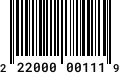
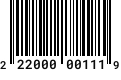
GTIN-8 support

diff --git a/src/Gtin8.php b/src/Gtin8.php
@@ -28,7 +28,7 @@ use Picqer\Barcode\BarcodeGeneratorJPG;
  * @license  MIT (https://sglms.com/license)
  * @link     https://sglms.com
  **/
-class Gtin12 extends GtinAbstract
+class Gtin8 extends GtinAbstract
 {
 
     /**
@@ -43,7 +43,7 @@ class Gtin12 extends GtinAbstract
     public static function create(
         int     $itemNumber,
         ?string $companyPrefix  = null,
-        string  $type = 'GTIN-12'
+        string  $type = 'GTIN-8'
     ): \Sglms\Gs1Gtin\GtinAbstract {
         $gtin             = new self($itemNumber, $companyPrefix, $type);
         return $gtin;
@@ -60,8 +60,8 @@ class Gtin12 extends GtinAbstract
      **/
     public function saveWithNumber(
         string $filename = "name",
-        int $sep         = 2,
-        int $height      = 36
+        int $sep         = 1,
+        int $height      = 56
     ): void {
         $generator = $this->saveBarcode($filename, $sep, $height);
         $barcode   = imagecreatefromjpeg($filename . ".jpg");
@@ -123,47 +123,27 @@ class Gtin12 extends GtinAbstract
 
         imagettftext(
             $canvas,
-            8,
+            10,
             0,
-            0,
-            $bcHeight + 5,
+            16,
+            $bcHeight + 6,
             imagecolorallocate($barcode, 10, 10, 10),
             'resources/RobotoMono-SemiBold.ttf',
-            (string) substr((string) $this->number, 0, 1)
+            substr((string) $this->number, 0, 4)
         );
         imagettftext(
             $canvas,
             10,
             0,
-            17,
-            $bcHeight + 5,
+            53,
+            $bcHeight + 6,
             imagecolorallocate($barcode, 10, 10, 10),
             'resources/RobotoMono-SemiBold.ttf',
-            substr((string) $this->number, 1, 5)
-        );
-        imagettftext(
-            $canvas,
-            10,
-            0,
-            66,
-            $bcHeight + 5,
-            imagecolorallocate($barcode, 10, 10, 10),
-            'resources/RobotoMono-SemiBold.ttf',
-            substr((string) $this->number, 6, 5)
-        );
-        imagettftext(
-            $canvas,
-            8,
-            0,
-            $bcWidth + 12,
-            $bcHeight + 5,
-            imagecolorallocate($barcode, 10, 10, 10),
-            'resources/RobotoMono-SemiBold.ttf',
-            (string) substr((string) $this->number, -1)
+            substr((string) $this->number, 4, 4)
         );
         imagedestroy($barcode);
         imagejpeg($canvas, $filename . ".jpg", 100);
     }
 }
 
-class_alias("\Sglms\Gs1Gtin\Gtin12", "UPCA");
+class_alias("\Sglms\Gs1Gtin\Gtin8", "EAN8");

diff --git a/index.php b/index.php
@@ -12,6 +12,7 @@
  **/
 
 use Sglms\Gs1Gtin\Gtin;
+use Sglms\Gs1Gtin\Gtin8;
 use Sglms\Gs1Gtin\Gtin12;
 use Sglms\Gs1Gtin\Gs1;
 
@@ -22,12 +23,12 @@ require_once 'vendor/autoload.php';
     <body>
         <h1>GTIN-14</h1>
         <?php
-        $gtin = Gtin::create(44444);    // Item Reference
+        $gtin = Gtin::create(45678);    // Item Reference
         echo $gtin->number;
         echo "<img src='" . $gtin->getBarcodeSource() . "' />";
         echo "<hr/>";
 
-        $gtin = Gtin::create(456789, 123);    // Item Reference + Client Prefix
+        $gtin = Gtin::create(45678, 123);    // Item Reference + Client Prefix
         echo $gtin->number;
         echo "<img src='" . $gtin->getBarcodeSource() . "' />";
         echo "<hr/>";
@@ -41,16 +42,16 @@ require_once 'vendor/autoload.php';
         Validate : <br/>
 
         <code>
-        Gtin::validate(11230004567896, 'GTIN-14'); # TRUE
+        Gtin::validate(11230000456781, 'GTIN-14'); # TRUE
         </code>
 
         <?php
-        var_dump(Gtin::validate(11230004567896));
+        var_dump(Gtin::validate(11230000456781));
         ?>
 
         <h1>GTIN-12 / UPC-A</h1>
         <?php
-        $gtin12 = Gtin12::create(456789, 123);    // Item Reference + Client Prefix
+        $gtin12 = Gtin12::create(1, 61414);    // Item Reference + Client Prefix
         echo $gtin12->number;
         echo "<img src='" . $gtin12->getBarcodeSource(1, 64) . "' />";
         echo "<hr/>";
@@ -76,6 +77,19 @@ require_once 'vendor/autoload.php';
 
         <?php
         var_dump(Gtin::validate(123004567895, 'GTIN-12'));
+        ?>
+
+        <h1>GTIN-8</h1>
+        <?php
+        $gtin8 = Gtin8::create(890, 5067);    // Item Reference + Client Prefix
+        echo $gtin8->number;
+        echo "<img src='" . $gtin8->getBarcodeSource(2, 64) . "' />";
+        echo "<hr/>";
+
+        $gtin8->saveWithNumber('resources/gtin8');
+        echo "<img src='resources/gtin8.jpg' />";
+        echo "<hr/>";
+
         ?>
 
         <h1>GS1-128</h1>

diff --git a/src/GtinAbstract.php b/src/GtinAbstract.php
@@ -72,7 +72,7 @@ abstract class GtinAbstract
      *
      * @param int    $itemNumber    Number
      * @param string $companyPrefix Client Code or Id
-     * @param string $type          [Ex. GTIN-14, etc.]
+     * @param string $type          [Ex. GTIN-12, etc.]
      *
      * @return \Sglms\Gtin\Gtin
      **/
@@ -178,7 +178,9 @@ abstract class GtinAbstract
             'EAN-14'  => 12,
             'ITF-14'  => 12,
             'GTIN-12' => 11,
-            'UPC-A'   => 11
+            'UPC-A'   => 11,
+            'GTIN-8'  => 7,
+            'EAN-8'   => 7,
         };
     }
 

diff --git a/src/Gtin.php b/src/Gtin.php
@@ -65,13 +65,13 @@ class Gtin extends GtinAbstract
         return $this;
     }
 
-
     /**
      * Create a GTIN number (object) from a int or string
      *
      * @param int    $itemNumber     Number
      * @param string $companyPrefix  Client Code or Id
-     * @param string $packagingLevel Packaging Level (Indicator according to GS1 Standards)
+     * @param string $type           [Ex. GTIN-14]
+     * @param int    $packagingLevel Packaging Level (Indicator according to GS1 Standards)
      *
      * @return \Sglms\Gtin\Gtin
      **/

diff --git a/README.md b/README.md
@@ -6,9 +6,9 @@ We use these for our own projects, in particular for our own [SGLMS/label-printe
 
 ## Usage
 
-### GTIN
+### GTIN (GTIN-14)
 
-Generate GTIN-14 (prefix + company number + item number + check digit):
+Generate GTIN-14 (prefix + company number + item reference + check digit):
 
 ```php
 use Sglms\Gs1Gtin\Gtin;
@@ -38,25 +38,24 @@ echo "<img src='path/barcode.jpg' />";
 
 For now, only JPG images are supported, but will add other standards as needed (by our rojects).
 
+#### Validate
+
+```
+Gtin::validate(11230000456781); # TRUE
+```
+
 
 
 ### GTIN-12 (UPC-A)
 
-Generate GTIN-12 (company number + item number + check digit):
+Generate GTIN-12 (company number + item reference + check digit):
 
 ```php
 use Sglms\Gs1Gtin\Gtin12;
 
 $gtin12 = Gtin12::create(1, 614141);    // Item Reference + Client Prefix
-// GTIN-12: 614141000012
+// GTIN-12: 614141000013
 ```
-
-```php
-// Display barcode
-echo "<img src='" . $gtin12->getBarcodeSource() . "' />";
-```
-
-![barcode](resources/gtin12.png "Generated barcode")
 
 ```php
 // Save barcode
@@ -66,6 +65,24 @@ echo "<img src='path/barcode.jpg' />";
 
 ![barcode](resources/gtin12.jpg "Generated barcode")
 
+### GTIN-8 (EAN-8)
+
+Generate GTIN-8 (company number + item reference + check digit):
+
+```php
+use Sglms\Gs1Gtin\Gtin8;
+
+$gtin8 = Gtin8::create(890, 5067);    // Item Reference + Client Prefix
+// GTIN-8: 50678907
+```
+
+```php
+// Save barcode
+echo $gtin8->saveBarcode('path/barcode');
+echo "<img src='path/barcode.jpg' />";
+```
+
+![barcode](resources/gtin8.jpg "Generated barcode")
 
 ### GS1
 
